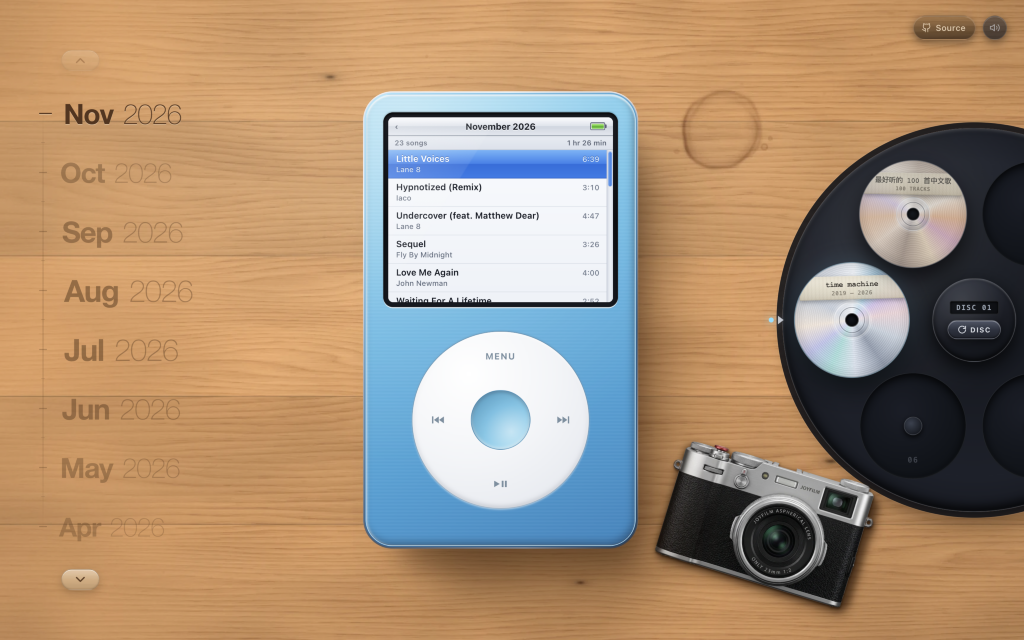
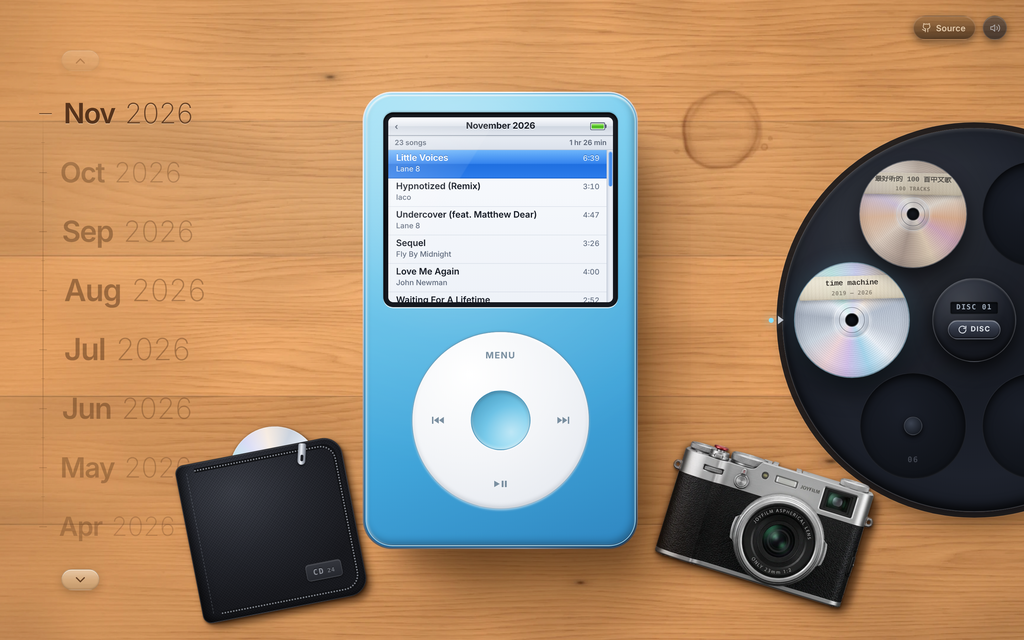
Update README screenshot with the CD book
Claude-Session: https://claude.ai/code/session_01YKGY19Ahzezob6pU7ikbc4

diff --git a/README.md b/README.md
@@ -12,7 +12,7 @@ For this year's holiday vibe-coded fun, I organized these playlists into a timel
 * iPod - click song to play (embedded YouTube video)
 * Camera module - photos from that month
 
-<img width="860" alt="scrobbl desk view with iPod, JOYFILM camera, and 6-disc changer" src="./assets/screenshot.png" />
+<img width="860" alt="scrobbl desk view with iPod, JOYFILM camera, CD book, and 6-disc changer" src="./assets/screenshot.png" />
 
 Other cool functionality:
 * Film simulations on the camera - click `Q` to apply film sims
